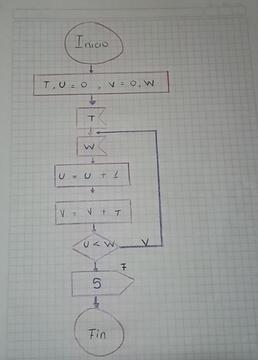
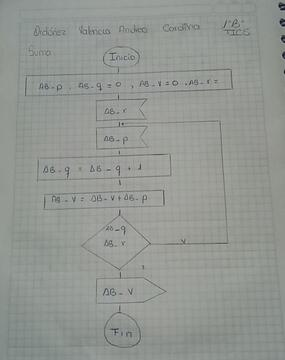
Suma de varios numeros-Segunda Version

diff --git a/AndreaOrdoñez/ACTIVIDAD-B2-C2/OrdoñezAndrea-SumaN.cpp b/AndreaOrdoñez/ACTIVIDAD-B2-C2/OrdoñezAndrea-SumaN.cpp
@@ -1,19 +1,39 @@
-#include<iostream>
+//================================================
+
+//==> Nombre del programa: Suma de varios numeros
+
+//==> Archivo : OrdoñezAndrea-SumaN.cpp
+//==>Autor: Andrea Ordoñez
+//==>Fecha de elaboración: 2022-04-27
+//==>Fecha ultima actualización: 2022-05-20
+//=================================================
+
+
+#include <iostream>
 using namespace std;
 
-int main()
+int main ()
 {
-	int u=0,w;
-	float v=0,t;
-	cout<<"inserte el valor de la suma : ";
-	cin>>w;
-	do{
-		cout<<"inserte el elemento " <<u+1;
-		cin>>t;
-		u=u+1;
-		v=v+t;
-	}while(u<w);
-	cout<<"la suma de los elementos fue : "<<v<<endl;
-	return(0);
-}
+	int AB_q=0, AB_p;
+	float AB_r, AB_v=0;
+	cout<<"Digite el valor de numeros que desea sumar: "<<endl;
+	cin>>AB_p;
+	do {
+		cout<<"Digite el valor del numero: "<<endl;
+		cin>>AB_r;
+		AB_q=AB_q+1; 
+		AB_v=AB_v+AB_r;
+	}while (AB_q<AB_p);
 
+	cout<<endl<<"//================================================"<<endl;
+cout<<"//==> Nombre del programa: Suma de Varios numeros"<<endl;
+cout<<"//==> Archivo : OrdoñezAndrea-SumaN.cpp"<<endl;
+cout<<"//==>Autor: Andrea Ordoñez"<<endl;
+cout<<"//==>Fecha de elaboración: 2022-04-27"<<endl;
+cout<<"//==>Fecha ultima actualización: 2022-05-20"<<endl;
+cout<<"//================================================="<<endl;
+
+	cout<<"La porcion de numeros digitados es: "<<AB_p<<endl;
+	cout<<"La suma total obvenida de los numeros es: "<<AB_v<<endl;
+	return 0;
+	}
